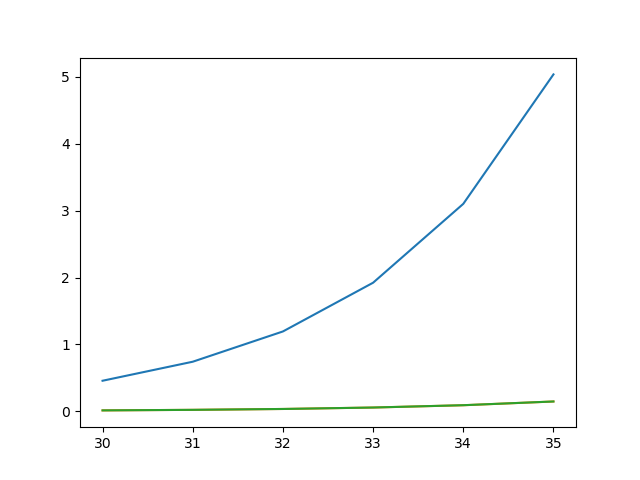
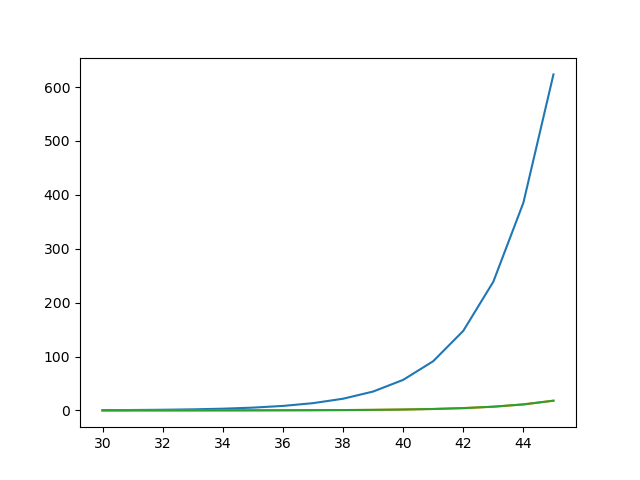
Final

diff --git a/UPPMA4/MA4_2.py b/UPPMA4/MA4_2.py
@@ -6,7 +6,6 @@ import matplotlib.pyplot as plt
 
 def main():
 	
-	#Test
 
 	def fib_py(n):
 		if n <= 1:
@@ -29,7 +28,7 @@ def main():
 	fib_numba_list_2=[]
 	fib_py_list_2=[]
 	
-	r=range(30,36)
+	r=range(30,46)
 	l=range(20,31)
 	
 #Question 5: py and numba for n=20-30
@@ -46,6 +45,7 @@ def main():
 		end = pc()
 		fib_numba_list_2.append(end - start)
 		print('fib_numba: ', end-start)
+
 #Question 4: all for n=30-45
 	for n in r:
 		print('N: ', n)
@@ -73,8 +73,9 @@ def main():
 	plt.plot(r, fib_numba_list, label='Numba')
 	plt.plot(r, fib_cpp_list, label='C++')
 	plt.savefig('plot_MA42.png')
+
 #Question 6: Calculate n=47 with numba and C++
-	n_6=40
+	n_6=47
 
 	#C++
 	start=pc()
@@ -87,8 +88,7 @@ def main():
 	start=pc()
 	fib_numba(n_6)
 	end=pc()
-	Q6_numba.append(end-start)
-	print('Numba n=47: ', Q6_numba)
+	print('Numba n=47: ', end-start)
 
 	
 
@@ -100,3 +100,7 @@ def main():
 
 if __name__ == '__main__':
 	main()
+
+
+
+
